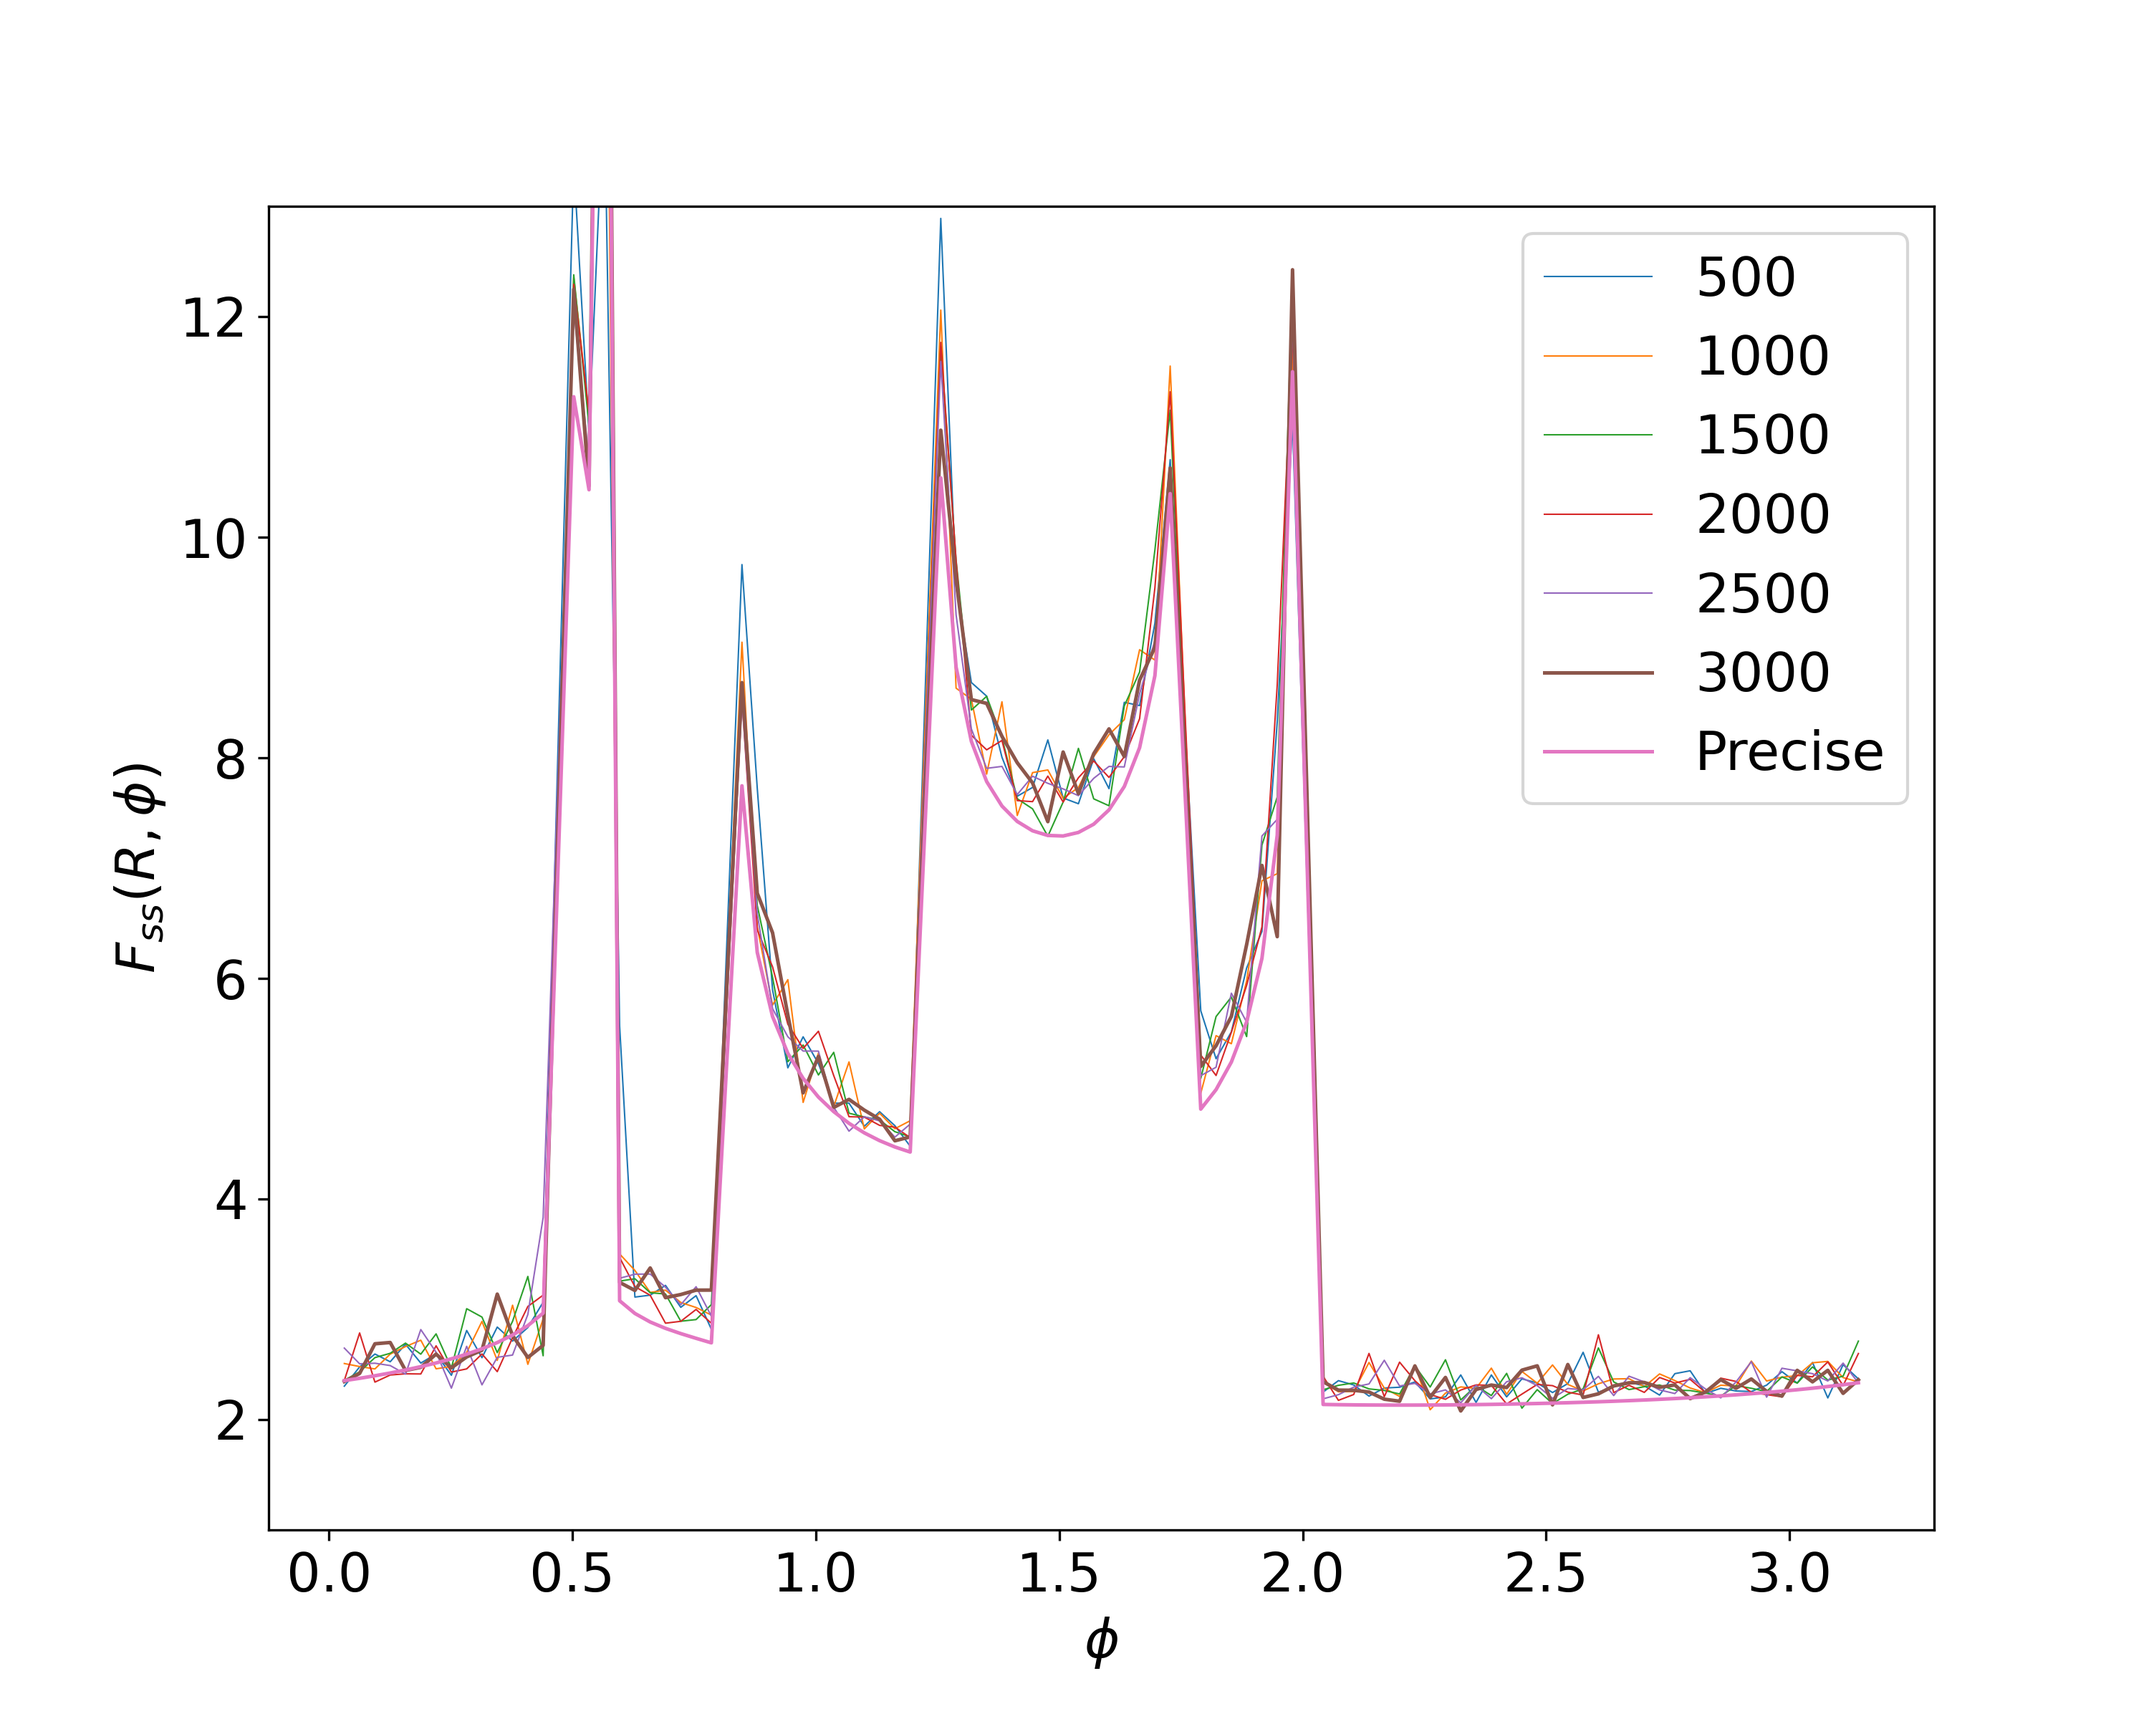
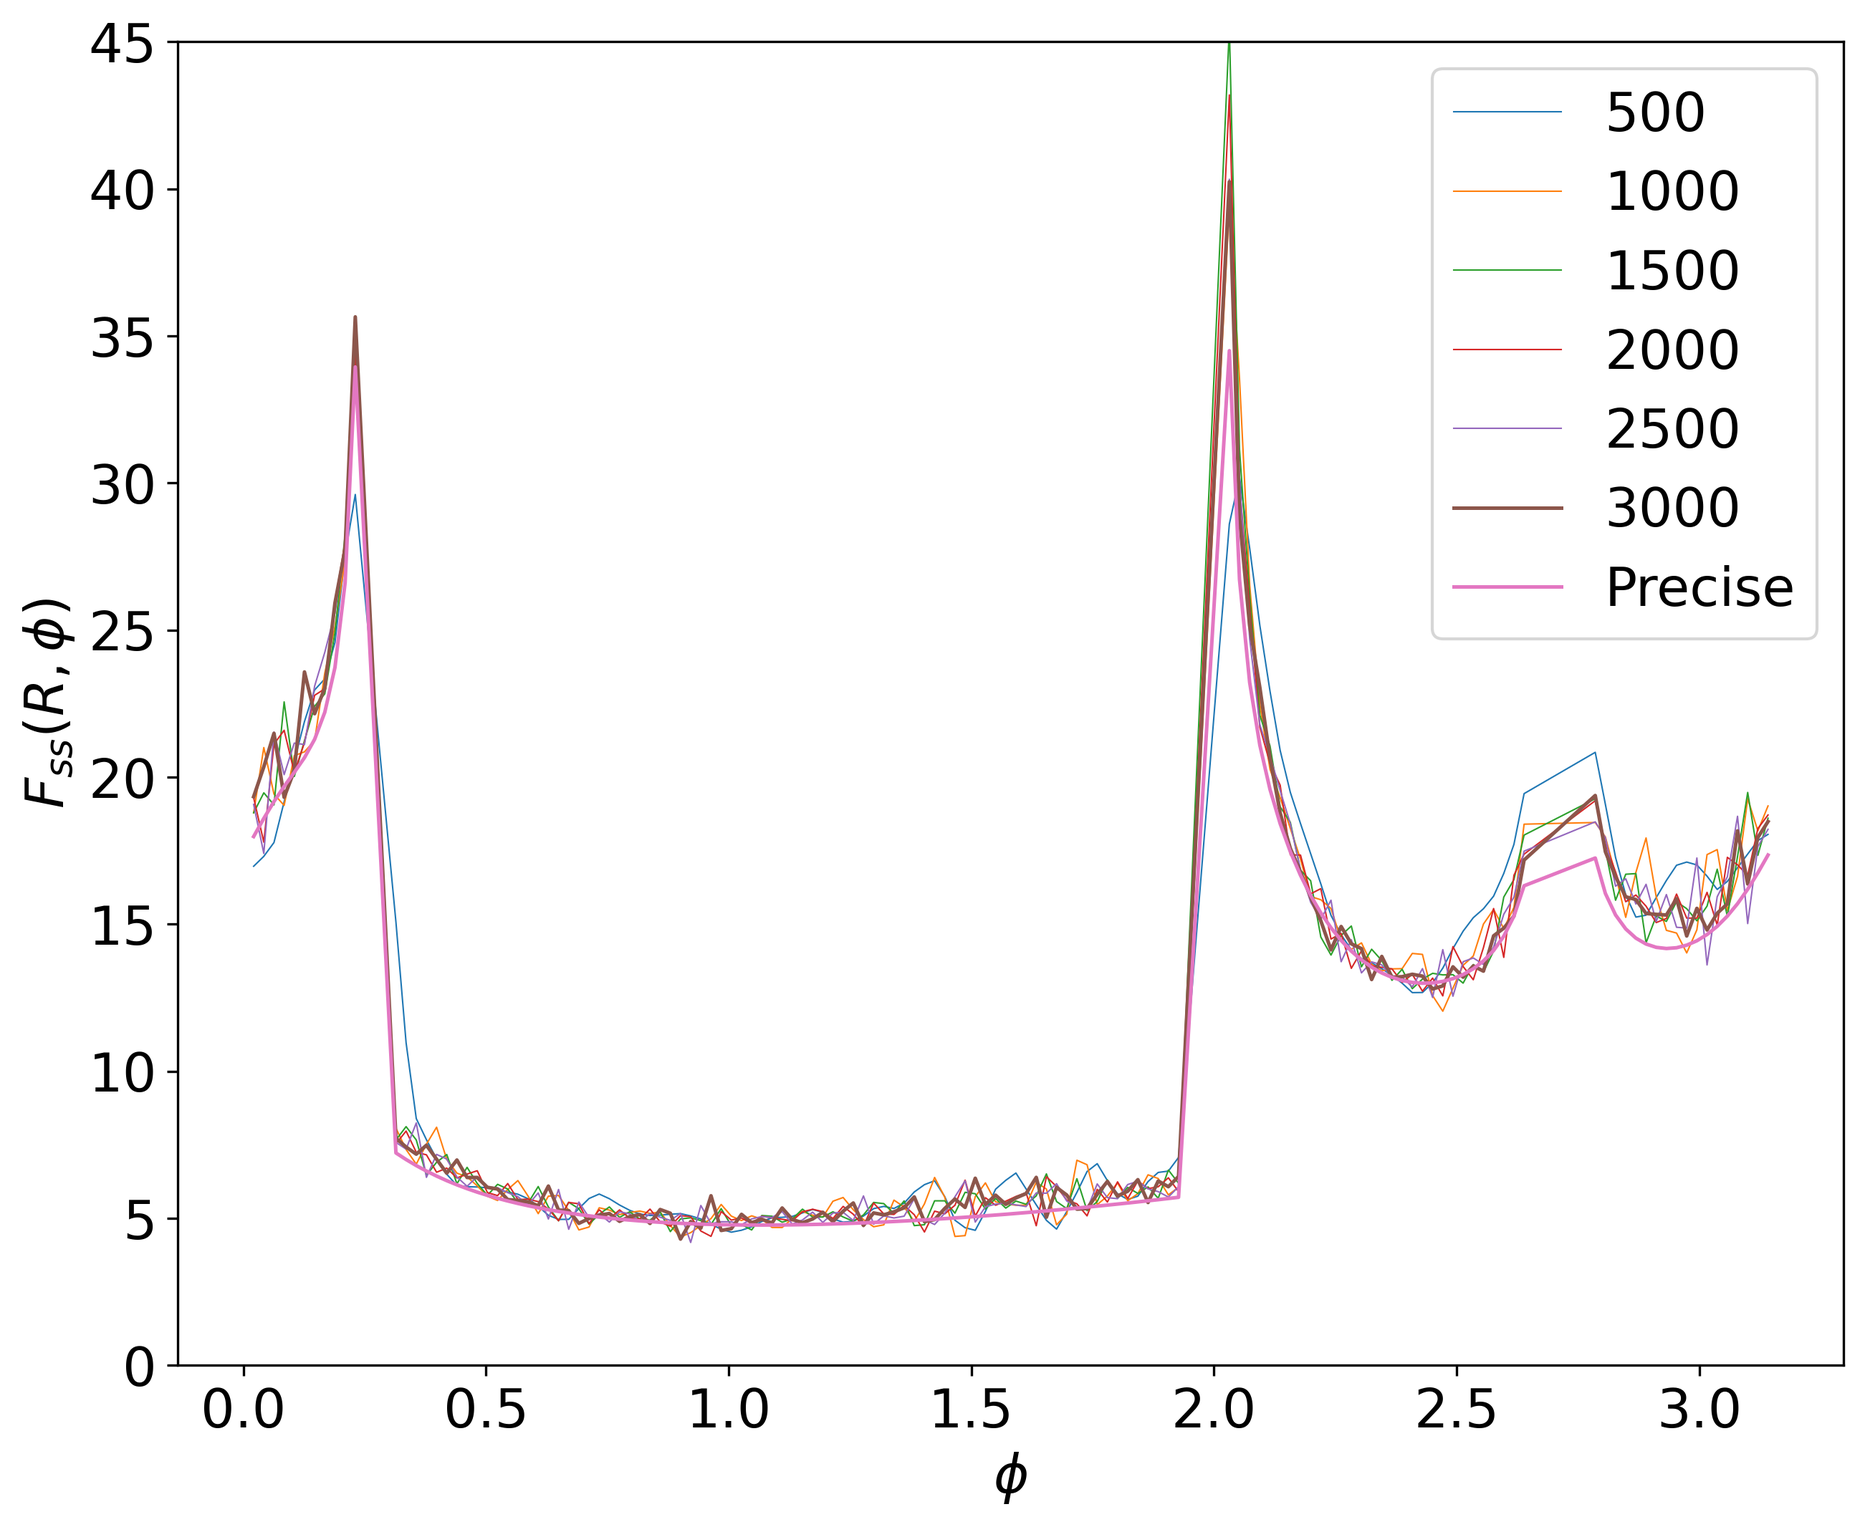
Update more plots

diff --git a/paper.tex b/paper.tex
@@ -806,7 +806,7 @@ comparison is on \cref{fig:fss-blob}.
     \label{fig:fss-blob-3x3}}
   \hfill
   \subfigure[$7\times 7$ kernel $H'$]{
-    \includegraphics[width=0.45\linewidth]{images/fss-blob-5x5.png}
+    \includegraphics[width=0.45\linewidth]{images/fss-blob-7x7.png}
     \label{fig:fss-blob-5x5}}
   \caption[]{Plot of the surface-surface function for the blob on
     \cref{fig:blob}. Values of $F_{ss}$ were calculated in semi-circle with
@@ -834,7 +834,7 @@ comparison between two algorithms is on \cref{fig:fss-ellipses}.
     \label{fig:fss-ellipses-3x3}}
   \hfill
   \subfigure[$7\times 7$ kernel $H'$]{
-    \includegraphics[width=0.45\linewidth]{images/fss-ellipses-5x5.png}
+    \includegraphics[width=0.45\linewidth]{images/fss-ellipses-7x7.png}
     \label{fig:fss-ellipses-5x5}}
   \caption[]{Plot of the surface-surface function for ellipses on
     \cref{fig:ellipses}. Values of $F_{ss}$ were calculated in semi-circle with

diff --git a/scripts&data/compare-blob.py b/scripts&data/compare-blob.py
@@ -26,6 +26,6 @@ for side in range(500, 3500, 500):
 plt.plot(phi, data_def[:, 0], linewidth = 1.2)
 plt.xlabel('$\phi$')
 plt.ylabel('$F_{ss}(R, \phi)$')
-plt.ylim([1,13])
+plt.ylim([0, 45])
 plt.legend(legend + ['Precise'])
-plt.savefig('../images/fss-blob-3x3.png')
+plt.savefig('../images/fss-blob-7x7.png', bbox_inches = 'tight')
